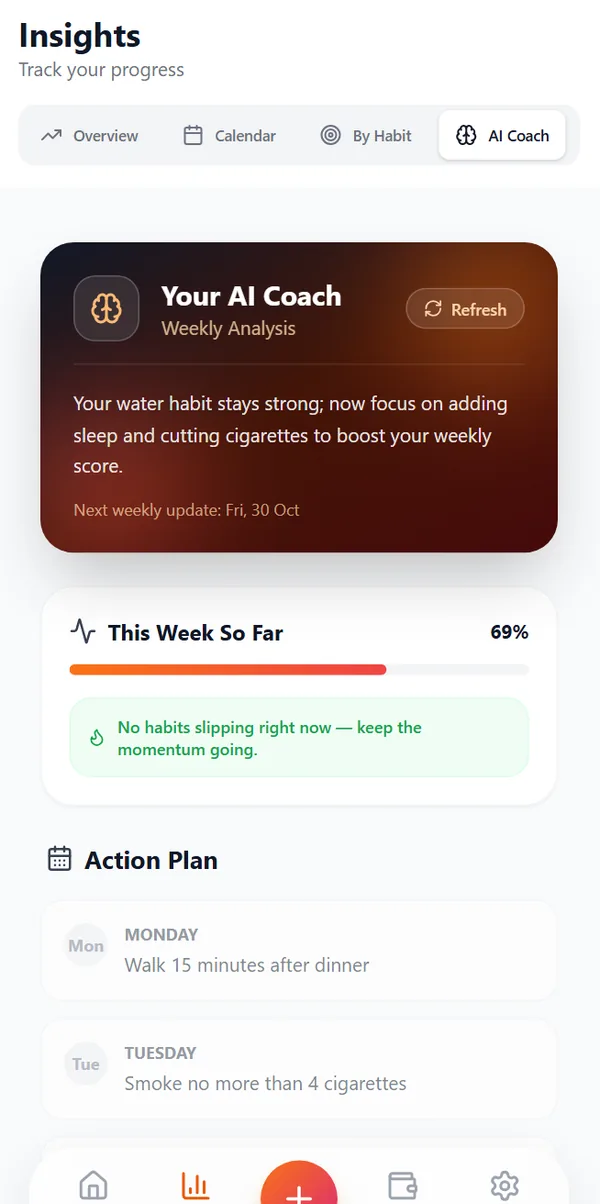
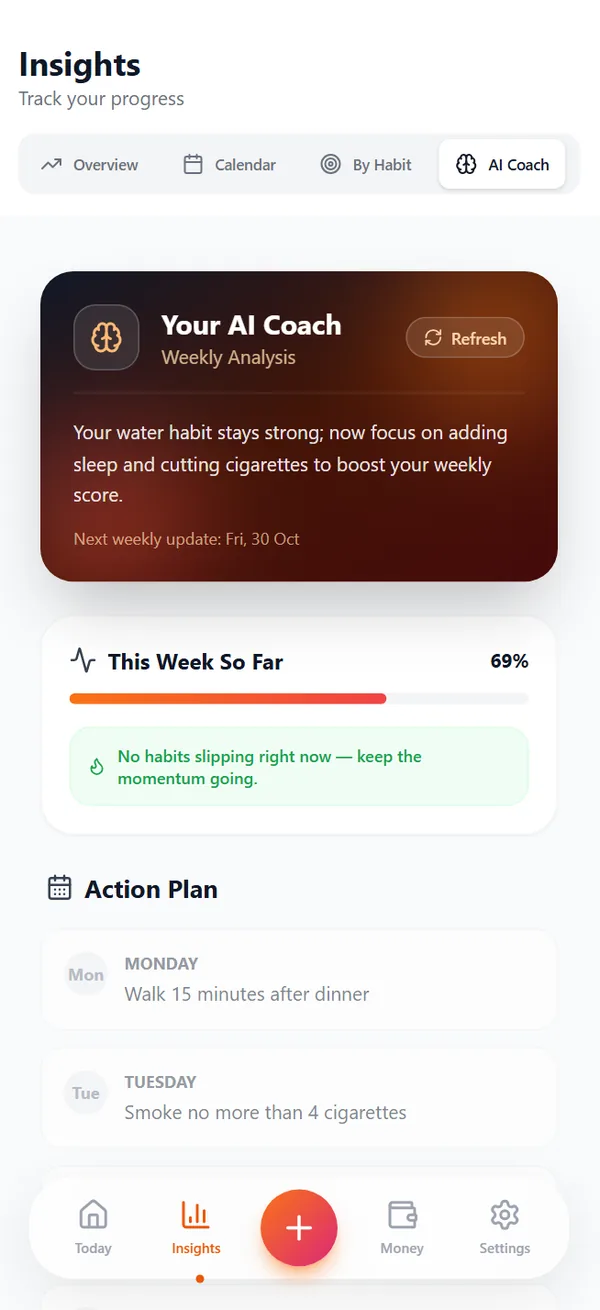
Show full screenshots with the bottom nav: frame matches the new aspect ratio

diff --git a/index.html b/index.html
@@ -24,7 +24,7 @@
   <link rel="preconnect" href="https://fonts.googleapis.com">
   <link rel="preconnect" href="https://fonts.gstatic.com" crossorigin>
   <link rel="stylesheet" href="https://fonts.googleapis.com/css2?family=Inter:wght@400;500;600;700&display=swap">
-  <link rel="stylesheet" href="styles.css?v=578d0311">
+  <link rel="stylesheet" href="styles.css?v=a8c75d38">
   <!-- Vercel Web Analytics (cookieless visitor and page view counts) -->
   <script>window.va = window.va || function () { (window.vaq = window.vaq || []).push(arguments); };</script>
   <script defer src="/_vercel/insights/script.js"></script>
@@ -82,7 +82,7 @@
       </div>
       <div class="hero__media">
         <div class="phone">
-          <img src="assets/screens/today.webp?v=aeae4bb5" width="600" height="1204" alt="HabiVox Insights: today's summary at 92 percent, INR 5,200 saved this month by smoking less, and 56 percent monthly consistency" fetchpriority="high">
+          <img src="assets/screens/today.webp?v=053035b0" width="600" height="1310" alt="HabiVox Insights: today's summary at 92 percent, INR 5,200 saved this month by smoking less, and 56 percent monthly consistency" fetchpriority="high">
         </div>
       </div>
     </div>
@@ -105,7 +105,7 @@
       </div>
       <div class="feature__media">
         <div class="phone">
-          <img src="assets/screens/habits.webp?v=501a3b6c" width="600" height="1204" alt="HabiVox Today screen: Smoke less as a quit habit with INR 500 saved today, Sleep at 8 hours 20 minutes, Drink water in litres and Walk in steps" loading="lazy">
+          <img src="assets/screens/habits.webp?v=155fa474" width="600" height="1310" alt="HabiVox Today screen: Smoke less as a quit habit with INR 500 saved today, Sleep at 8 hours 20 minutes, Drink water in litres and Walk in steps" loading="lazy">
         </div>
       </div>
     </div>
@@ -127,10 +127,10 @@
       <div class="feature__media">
         <div class="phones">
           <div class="phone">
-            <img src="assets/screens/calendar.webp?v=023b3367" width="600" height="1204" alt="HabiVox calendar for October 2026 with each day shaded green by how much got done" loading="lazy">
+            <img src="assets/screens/calendar.webp?v=3f265f3a" width="600" height="1310" alt="HabiVox calendar for October 2026 with each day shaded green by how much got done" loading="lazy">
           </div>
           <div class="phone">
-            <img src="assets/screens/consistency.webp?v=ef242a6d" width="600" height="1204" alt="HabiVox habit details for Drink water and Walk: average, best day, worst day and a Declining label" loading="lazy">
+            <img src="assets/screens/consistency.webp?v=dace0d43" width="600" height="1310" alt="HabiVox habit details for Drink water and Walk: average, best day, worst day and a Declining label" loading="lazy">
           </div>
         </div>
       </div>
@@ -154,10 +154,10 @@
       <div class="feature__media">
         <div class="phones">
           <div class="phone">
-            <img src="assets/screens/money.webp?v=a5c4ff32" width="600" height="1204" alt="HabiVox Money screen for October 2026 with balance, one tap Quick add buttons and a daily spending chart" loading="lazy">
+            <img src="assets/screens/money.webp?v=a0b59876" width="600" height="1310" alt="HabiVox Money screen for October 2026 with balance, one tap Quick add buttons and a daily spending chart" loading="lazy">
           </div>
           <div class="phone">
-            <img src="assets/screens/categories.webp?v=1a4bb3fc" width="600" height="1204" alt="HabiVox spending categories: Food and Drink, Transport, Shopping, Game and Beauty with totals, and the biggest expense of the month" loading="lazy">
+            <img src="assets/screens/categories.webp?v=73ef8923" width="600" height="1310" alt="HabiVox spending categories: Food and Drink, Transport, Shopping, Game and Beauty with totals, and the biggest expense of the month" loading="lazy">
           </div>
         </div>
       </div>
@@ -180,7 +180,7 @@
       </div>
       <div class="feature__media">
         <div class="phone">
-          <img src="assets/screens/ai-coach.webp?v=ae738a01" width="600" height="1204" alt="HabiVox AI Coach screen with a weekly summary, Refresh button, This week so far progress and a day by day action plan" loading="lazy">
+          <img src="assets/screens/ai-coach.webp?v=47ab3f75" width="600" height="1310" alt="HabiVox AI Coach screen with a weekly summary, Refresh button, This week so far progress and a day by day action plan" loading="lazy">
         </div>
       </div>
     </div>

diff --git a/src/index.html b/src/index.html
@@ -16,7 +16,7 @@
       </div>
       <div class="hero__media">
         <div class="phone">
-          <img src="assets/screens/today.webp" width="600" height="1204" alt="HabiVox Insights: today's summary at 92 percent, INR 5,200 saved this month by smoking less, and 56 percent monthly consistency" fetchpriority="high">
+          <img src="assets/screens/today.webp" width="600" height="1310" alt="HabiVox Insights: today's summary at 92 percent, INR 5,200 saved this month by smoking less, and 56 percent monthly consistency" fetchpriority="high">
         </div>
       </div>
     </div>
@@ -39,7 +39,7 @@
       </div>
       <div class="feature__media">
         <div class="phone">
-          <img src="assets/screens/habits.webp" width="600" height="1204" alt="HabiVox Today screen: Smoke less as a quit habit with INR 500 saved today, Sleep at 8 hours 20 minutes, Drink water in litres and Walk in steps" loading="lazy">
+          <img src="assets/screens/habits.webp" width="600" height="1310" alt="HabiVox Today screen: Smoke less as a quit habit with INR 500 saved today, Sleep at 8 hours 20 minutes, Drink water in litres and Walk in steps" loading="lazy">
         </div>
       </div>
     </div>
@@ -61,10 +61,10 @@
       <div class="feature__media">
         <div class="phones">
           <div class="phone">
-            <img src="assets/screens/calendar.webp" width="600" height="1204" alt="HabiVox calendar for October 2026 with each day shaded green by how much got done" loading="lazy">
+            <img src="assets/screens/calendar.webp" width="600" height="1310" alt="HabiVox calendar for October 2026 with each day shaded green by how much got done" loading="lazy">
           </div>
           <div class="phone">
-            <img src="assets/screens/consistency.webp" width="600" height="1204" alt="HabiVox habit details for Drink water and Walk: average, best day, worst day and a Declining label" loading="lazy">
+            <img src="assets/screens/consistency.webp" width="600" height="1310" alt="HabiVox habit details for Drink water and Walk: average, best day, worst day and a Declining label" loading="lazy">
           </div>
         </div>
       </div>
@@ -88,10 +88,10 @@
       <div class="feature__media">
         <div class="phones">
           <div class="phone">
-            <img src="assets/screens/money.webp" width="600" height="1204" alt="HabiVox Money screen for October 2026 with balance, one tap Quick add buttons and a daily spending chart" loading="lazy">
+            <img src="assets/screens/money.webp" width="600" height="1310" alt="HabiVox Money screen for October 2026 with balance, one tap Quick add buttons and a daily spending chart" loading="lazy">
           </div>
           <div class="phone">
-            <img src="assets/screens/categories.webp" width="600" height="1204" alt="HabiVox spending categories: Food and Drink, Transport, Shopping, Game and Beauty with totals, and the biggest expense of the month" loading="lazy">
+            <img src="assets/screens/categories.webp" width="600" height="1310" alt="HabiVox spending categories: Food and Drink, Transport, Shopping, Game and Beauty with totals, and the biggest expense of the month" loading="lazy">
           </div>
         </div>
       </div>
@@ -114,7 +114,7 @@
       </div>
       <div class="feature__media">
         <div class="phone">
-          <img src="assets/screens/ai-coach.webp" width="600" height="1204" alt="HabiVox AI Coach screen with a weekly summary, Refresh button, This week so far progress and a day by day action plan" loading="lazy">
+          <img src="assets/screens/ai-coach.webp" width="600" height="1310" alt="HabiVox AI Coach screen with a weekly summary, Refresh button, This week so far progress and a day by day action plan" loading="lazy">
         </div>
       </div>
     </div>

diff --git a/styles.css b/styles.css
@@ -333,7 +333,7 @@ summary:focus-visible {
 
 .phone img {
   width: 100%;
-  aspect-ratio: 600 / 1204;
+  aspect-ratio: 600 / 1310;
   border-radius: 34px;
   background: var(--white);
   object-fit: cover;
